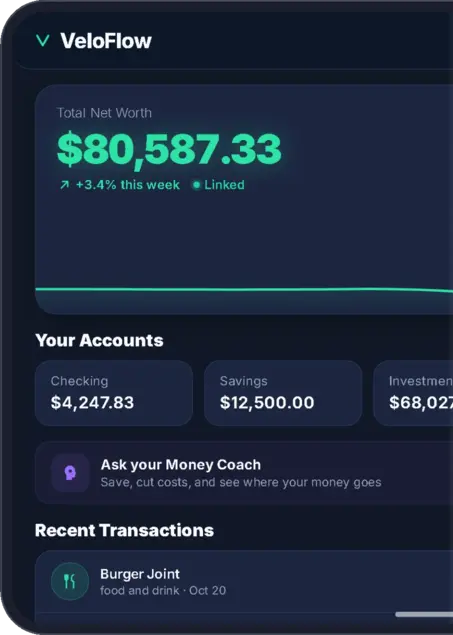
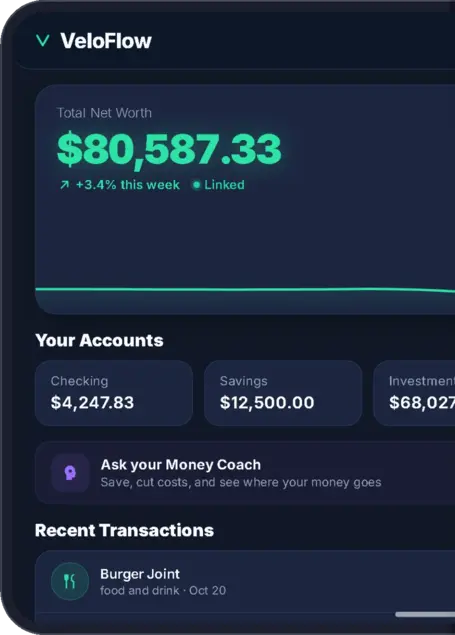
Hide the centre crease on the foldable
Removes the crease highlight measured from the open screen, overlaps the
two halves, and shows the open device as one seamless image once it has
finished opening.

Claude-Session: https://claude.ai/code/session_01DyF9xxWHdsbyZYZUhNCR4V

diff --git a/index.html b/index.html
@@ -320,9 +320,10 @@ footer .wrap span:first-child{margin-right:auto}
 .duo-stage{position:relative;width:100%;aspect-ratio:1813/1270;transform-style:preserve-3d;transform:rotateX(7deg) rotateY(-9deg);transition:transform var(--dur) var(--ease)}
 .duo:not(.open) .duo-stage{transform:translateX(-24%) rotateX(7deg) rotateY(-26deg)}
 .duo-right,.duo-leaf{position:absolute;top:0;height:100%;transform-style:preserve-3d}
-.duo-right{right:0;width:50.03%}
-.duo-leaf{left:0;width:49.97%;transform-origin:100% 50% calc(var(--t) / 2);transition:transform var(--dur) var(--ease)}
-.duo:not(.open) .duo-leaf{transform:rotateY(180deg)}
+.duo-right{right:0;width:50.19%}
+.duo-leaf{left:0;width:50.19%;transform-origin:100% 50% calc(var(--t) / 2);transition:transform var(--dur) var(--ease)}
+.duo-leaf{transform:rotateY(0deg) translateZ(.8px)}
+.duo:not(.open) .duo-leaf{transform:rotateY(180deg) translateZ(.8px)}
 .duo .face{position:absolute;inset:0;overflow:hidden;backface-visibility:hidden;-webkit-backface-visibility:hidden;border-radius:7% / 10%}
 .duo-right .face{border-radius:0 7% 7% 0 / 0 10% 10% 0}
 .duo-leaf .front{border-radius:7% 0 0 7% / 10% 0 0 10%}
@@ -335,14 +336,18 @@ footer .wrap span:first-child{margin-right:auto}
 .duo-right .shade{background:rgba(5,7,12,.92);transition-delay:.25s}
 .duo.open .back .shade{opacity:1}
 /* glass glare sweeps across as it opens */
-.duo .glare{position:absolute;inset:0;background:linear-gradient(112deg,transparent 30%,rgba(255,255,255,.16) 46%,rgba(255,255,255,.04) 54%,transparent 64%) no-repeat;background-size:300% 100%;background-position:100% 0;transition:background-position calc(var(--dur) * 1.2) var(--ease);pointer-events:none}
-.duo.open .glare{background-position:0 0}
+.duo .glare{position:absolute;inset:0;background:linear-gradient(112deg,transparent 30%,rgba(255,255,255,.16) 46%,rgba(255,255,255,.04) 54%,transparent 64%) no-repeat;background-size:300% 100%;background-position:-60% 0;transition:background-position calc(var(--dur) * 1.2) var(--ease);pointer-events:none}
+.duo.open .glare{background-position:100% 0}
 /* metal side edges, visible while the device turns */
 .duo .edge{position:absolute;top:5%;height:90%;width:var(--t);background:linear-gradient(180deg,#3a3d42,#c9ccd1 18%,#eef0f2 50%,#b9bcc1 82%,#3a3d42);border-radius:3px}
 .duo-right .edge{right:0;transform-origin:100% 50%;transform:rotateY(90deg)}
 .duo-leaf .edge{left:0;transform-origin:0 50%;transform:rotateY(-90deg)}
 /* hinge spine: dark hardware that shows through the fold while it moves */
-.duo .spine{position:absolute;left:calc(var(--t) * -1.2);top:2%;width:calc(var(--t) * 2.4);height:96%;border-radius:var(--t);background:linear-gradient(90deg,#0d0f13,#2a2d33 50%,#0d0f13);transform:translateZ(calc(var(--t) * -0.6))}
+.duo .spine{position:absolute;left:calc(var(--t) * -1.2);top:2%;width:calc(var(--t) * 2.4);height:96%;border-radius:var(--t);background:linear-gradient(90deg,#0d0f13,#2a2d33 50%,#0d0f13);transform:translateZ(calc(var(--t) * -0.6));transition:opacity .2s}
+.duo.open .spine{opacity:0;transition-delay:var(--dur)}
+/* at rest the open device is one seamless image; the two halves only carry the motion */
+.duo .duo-full{position:absolute;inset:0;transform:translateZ(1.5px);opacity:0;transition:opacity .25s}
+.duo.open .duo-full{opacity:1;transition-delay:calc(var(--dur) - .1s)}
 .duo figcaption{font:500 14px var(--font);color:var(--muted)}
 @media (prefers-reduced-motion:reduce){.duo-stage,.duo-leaf,.duo::after,.duo .shade,.duo .glare{transition:none}}
 </style>
@@ -487,6 +492,7 @@ footer .wrap span:first-child{margin-right:auto}
                 <div class="face back"><img src="img/duo-closed.webp" alt=""><i class="shade"></i></div>
                 <b class="edge"></b>
               </div>
+              <img class="duo-full" src="img/duo-open.webp" alt="">
             </div>
             <figcaption>Real VeloFlow screens, folded and open</figcaption>
           </figure>
